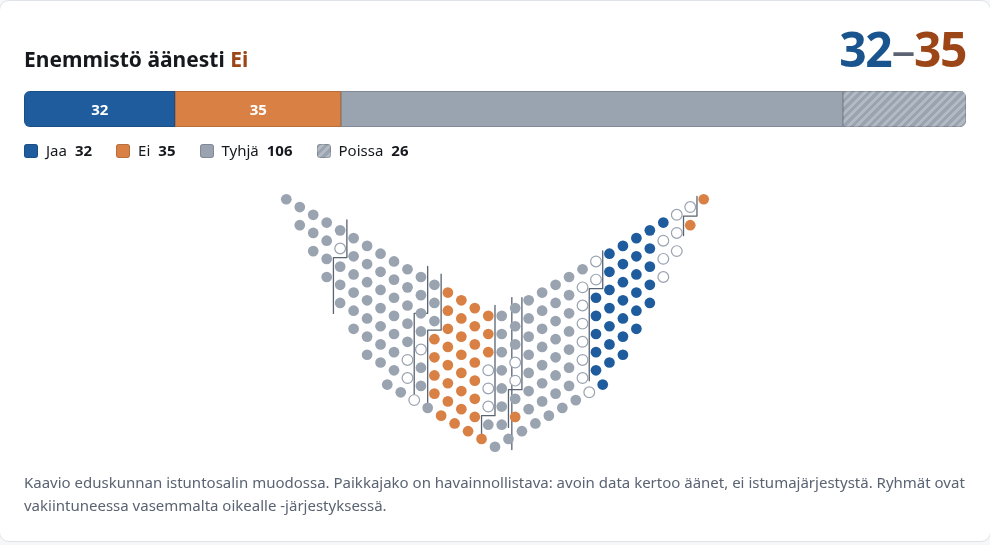
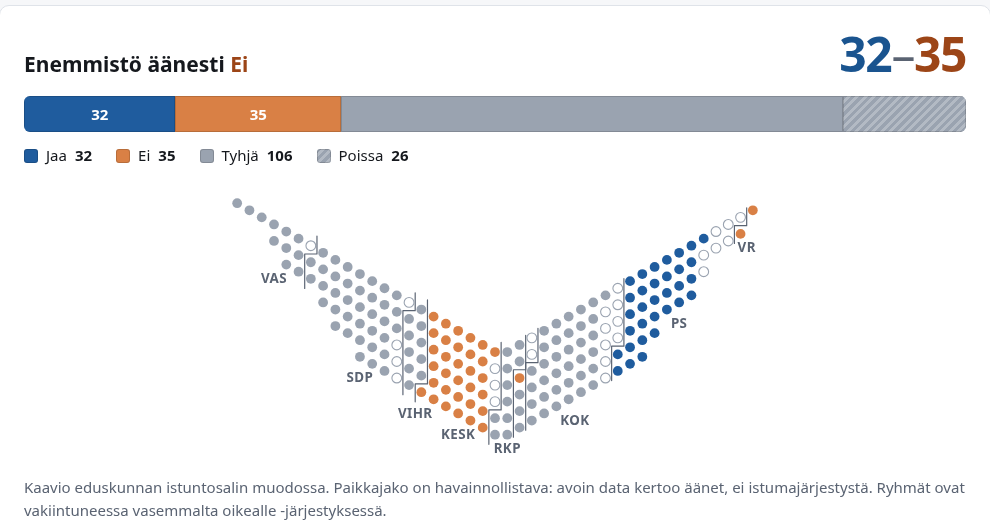
Name each group under its seats, and fix the lattice the lines sit on
Two things, because the second turned out to be the cause of the first.

The dividers were crossing each other. Not crowding — crossing. Seats were
spaced along each row's own length, which put a row holding an odd number of
seats on integer steps out from the apex and an even row on half-integer
ones. The two interleaved into columns half the intended distance apart,
while the dividers still reached half an intended column either side, so a
step landed on its neighbour. Nothing about the seats looked wrong, which is
why it took measuring the coordinates to see. Every seat now sits at a
half-integer step on both arms and in every row, so all rows share one
lattice: 43 columns, every gap 15.59, and a test fails if two spacings ever
appear again.

Six rows instead of eight spreads the same members over 43 columns rather
than 32, which is the room the boundaries needed, and leaves the chevron
wide and shallow the way the printed chamber graphics draw it.

Each group is then named under its own seats — KOK, SDP, VAS — hanging just
below the underside of the chevron rather than on one line under the whole
diagram, which would have left the labels for the arms far from the members
they name. Getting that right took two attempts: the first measured the
group's deepest seat, the second the column nearest its centre, and both put
labels inside the seats, because the underside slopes and a label overhangs
the columns beside it. It now clears every seat under its own footprint.
[…]

Changed region(s): [[0.0, 0.3385, 0.9697, 1.0], [0.0, 0.0615, 1.0, 0.3077], [0.2121, 0.3692, 0.2424, 0.4]]

diff --git a/VoteCheckWeb/wwwroot/site.css b/VoteCheckWeb/wwwroot/site.css
@@ -301,6 +301,16 @@ h2 {
     stroke-linejoin: round;
 }
 
+/* Group names, in viewBox units so they scale with the diagram. text-anchor centres each
+ * on the block it names. */
+.chamber-label {
+    fill: var( --ink-muted );
+    font-size: 17px;
+    font-weight: 700;
+    text-anchor: middle;
+    letter-spacing: .03em;
+}
+
 .seat-Jaa   { fill: var( --jaa-fill ); }
 .seat-Ei    { fill: var( --ei-fill ); }
 .seat-Tyhjä { fill: var( --neutral-fill ); }
@@ -440,6 +450,11 @@ form.search button:hover { filter: brightness( 1.08 ); }
 /* ---- narrow screens ------------------------------------------------------- */
 
 @media ( max-width: 34rem ) {
+    /* The chamber is small enough on a phone that the group names render at about eight
+     * pixels — too small to read, and clutter at that size. The list directly below names
+     * every group anyway, which is the better way to read a breakdown on a phone. */
+    .chamber-label { display: none; }
+
     /* Group rows need nothing here — they stack on one edge at every width by construction. */
     .score { margin-left: 0; }
     th, td { padding: var( --space-2 ); }

diff --git a/VoteCheckWeb/Pages/Shared/_Chamber.cs b/VoteCheckWeb/Pages/Shared/_Chamber.cs
@@ -6,10 +6,14 @@ namespace VoteCheckWeb.Pages;
 public sealed record Seat(
     double X, double Y, string Vote, string Party, string Member, int PersonNumber );
 
+// A group's short name, centred under the block of seats it belongs to.
+public sealed record ChamberLabel( double X, double Y, string Text );
+
 // A laid-out chamber, with the box it needs. The caller does not compute geometry.
 // Dividers are SVG path data, one per boundary between two groups.
 public sealed record ChamberPlan(
     IReadOnlyList<Seat> Seats, IReadOnlyList<string> Dividers,
+    IReadOnlyList<ChamberLabel> Labels,
     double Width, double Height, double Radius ) {
     public bool IsEmpty => Seats.Count == 0;
 }
@@ -26,11 +30,15 @@ public sealed record ChamberPlan(
 // the split inside it, and how the whole chamber divided.
 public static class Chamber {
 
-    private const int RowCount = 8;
+    // Six rows rather than eight. The same members then spread over 43 columns instead of
+    // 32, which is what gives the boundaries between groups room to be told apart, and leaves
+    // the chevron wide and shallow the way the printed chamber graphics draw it.
+    private const int RowCount = 6;
     private const double SeatSpacing = 18;   // along an arm, centre to centre
     private const double RowSpacing = 21;    // between nested chevrons
     private const double SeatRadius = 6.2;
     private const double Margin = 8;
+    private const double LabelSize = 17;     // group names, in viewBox units
 
     // 30° from horizontal. Shallower reads as a line rather than a chamber; steeper turns the
     // chevron into a V narrow enough that the outer rows tower over the inner ones.
@@ -38,7 +46,7 @@ public static class Chamber {
 
     public static ChamberPlan Arrange( IReadOnlyList<IndividualVote> ballots ) {
         if ( ballots.Count == 0 )
-            return new ChamberPlan( [], [], 0, 0, SeatRadius );
+            return new ChamberPlan( [], [], [], 0, 0, SeatRadius );
 
         var seated = ballots
             .OrderBy( b => Party.SeatingRank( b.Party ) )
@@ -70,8 +78,61 @@ public static class Chamber {
             .Select( s => s with { X = Round( s.X - minX ), Y = Round( s.Y - minY ) } )
             .ToList();
 
-        return new ChamberPlan( shifted, Dividers( shifted ),
-                                Round( maxX - minX ), Round( maxY - minY ), SeatRadius );
+        var labels = Labels( shifted );
+
+        // The box has to grow to hold the labels, which hang below the seats.
+        var height = labels.Count == 0
+            ? maxY - minY
+            : Math.Max( maxY - minY, labels.Max( l => l.Y ) + LabelSize * 0.35 + Margin );
+
+        return new ChamberPlan( shifted, Dividers( shifted ), labels,
+                                Round( maxX - minX ), Round( height ), SeatRadius );
+    }
+
+    // A short name under each group, centred on its seats and hanging just below them, so the
+    // labels follow the underside of the chevron. One line under the whole diagram would have
+    // left the labels for the arms floating far from the members they name.
+    private static List<ChamberLabel> Labels( List<Seat> seats ) {
+        var labels = new List<ChamberLabel>();
+        double placedRight = 0, placedY = 0;
+        var first = true;
+
+        foreach ( var group in seats.GroupBy( s => s.Party )
+                                    .OrderBy( g => g.Min( s => s.X ) ) ) {
+            var text = Party.ShortName( group.Key );
+            var centre = ( group.Min( s => s.X ) + group.Max( s => s.X ) ) / 2;
+
+            // Rough, and deliberately so: the exact width depends on the reader's font, and
+            // erring wide both drops a doubtful label and clears more seats than strictly
+            // needed, which are the safe directions to be wrong in.
+            var half = text.Length * LabelSize * 0.34;
+
+            // Clear every seat the label will actually sit over, not just the ones in this
+            // group's own column. The underside of the chevron slopes, so a label centred on
+            // one column overhangs deeper ones beside it: measuring a single column put VAS
+            // and KOK inside the seats rather than under them.
+            var footprint = seats
+                .Where( s => Math.Abs( s.X - centre ) <= half + SeatRadius )
+                .Select( s => s.Y )
+                .DefaultIfEmpty( group.Max( s => s.Y ) )
+                .Max();
+            var y = footprint + SeatRadius + LabelSize;
+
+            var left = centre - half;
+            var right = centre + half;
+
+            // Groups of one or two members are narrower than their own name, and a row of
+            // overlapping labels identifies nobody. The list below the diagram names every
+            // group, and hovering a seat names its member's, so dropping one costs little.
+            if ( !first && left < placedRight && Math.Abs( y - placedY ) < LabelSize * 1.2 )
+                continue;
+
+            labels.Add( new ChamberLabel( Round( centre ), Round( y ), text ) );
+            ( placedRight, placedY ) = ( right, y );
+            first = false;
+        }
+
+        return labels;
     }
 
     // A line along each boundary between two groups, so the blocks are bounded rather than
@@ -139,23 +200,31 @@ public static class Chamber {
             var n = perRow[ row ];
             if ( n == 0 ) continue;
 
-            // The apex of each nested chevron sits above the one inside it, and the arms grow
-            // so that seat spacing stays constant however many a row holds.
+            // The apex of each nested chevron sits above the one inside it; the arms simply
+            // run as far as the row's seats reach.
             var apexY = -row * RowSpacing;
-            var armLength = n * SeatSpacing / 2.0;
 
-            for ( var i = 0; i < n; i++ ) {
-                // Walk the whole path — left tip, through the apex, out to the right tip —
-                // and place seats at even intervals along it. Measuring by path length rather
-                // than per arm means an odd row simply puts one seat near the apex instead of
-                // forcing the row to be even.
-                var along = ( i + 0.5 ) / n * ( 2 * armLength );
-                var onLeftArm = along < armLength;
-                var fromApex = onLeftArm ? armLength - along : along - armLength;
+            // Every seat sits a half-integer number of steps out from the apex, on both arms
+            // and in every row, so all rows share one lattice and the columns line up.
+            //
+            // Spacing them along the row's own length instead looked equivalent and was not:
+            // a row holding an odd number of seats landed on integer steps while an even row
+            // landed on half-integer ones, and the two interleaved into columns half the
+            // expected distance apart. The dividers, which reach half a column either side,
+            // then crossed their neighbours.
+            var left = n / 2;
+            var right = n - left;
+            // Alternate which arm takes the extra seat of an odd row, so the lopsidedness
+            // does not accumulate down one side of the chamber.
+            if ( row % 2 == 1 ) ( left, right ) = ( right, left );
 
-                var dx = fromApex * Math.Cos( ArmAngle );
-                var dy = fromApex * Math.Sin( ArmAngle );
-                points.Add( ( onLeftArm ? -dx : dx, apexY - dy ) );
+            for ( var k = 0; k < left; k++ ) {
+                var d = ( k + 0.5 ) * SeatSpacing;
+                points.Add( ( -d * Math.Cos( ArmAngle ), apexY - d * Math.Sin( ArmAngle ) ) );
+            }
+            for ( var k = 0; k < right; k++ ) {
+                var d = ( k + 0.5 ) * SeatSpacing;
+                points.Add( ( d * Math.Cos( ArmAngle ), apexY - d * Math.Sin( ArmAngle ) ) );
             }
         }
 

diff --git a/VoteCheckWeb.Tests/ChamberTests.cs b/VoteCheckWeb.Tests/ChamberTests.cs
@@ -145,6 +145,38 @@ public class ChamberTests {
     }
 
     [TestMethod]
+    public void EveryRowSharesOneLatticeSoColumnsAreEvenlySpaced() {
+        // The dividers reach half a column either side, so the columns have to be a uniform
+        // distance apart. They were not: spacing seats along each row's own length put an odd
+        // row on integer steps from the apex and an even row on half-integer ones, and the two
+        // interleaved into columns half the expected distance apart — so a stepped divider
+        // reached exactly onto its neighbour. Nothing about the seats looked wrong, only the
+        // lines crossing each other.
+        foreach ( var n in new[] { 99, 150, 198, 199, 200 } ) {
+            var xs = Chamber.Arrange( Ballots( n ) )
+                .Seats.Select( s => s.X ).Distinct().OrderBy( x => x ).ToList();
+            var gaps = xs.Zip( xs.Skip( 1 ), ( a, b ) => Math.Round( b - a, 1 ) )
+                         .Distinct().ToList();
+            Assert.AreEqual( 1, gaps.Count,
+                $"{n} ballots produced columns at {gaps.Count} different spacings: "
+                + string.Join( ", ", gaps ) );
+        }
+    }
+
+    [TestMethod]
+    public void NoBoundaryIsDrawnTwice() {
+        var plan = Chamber.Arrange( Division() );
+
+        CollectionAssert.AllItemsAreUnique( plan.Dividers.ToList() );
+
+        // Note that two *different* boundaries sharing a starting x is expected, not a fault:
+        // where one group ends partway down a column and the next ends at the foot of the same
+        // column, the step's right edge and the following straight line lie on one vertical,
+        // above and below the step. Together they read as the single continuous boundary they
+        // are. Asserting distinct x values here fails on correct output.
+    }
+
+    [TestMethod]
     public void BoundariesInsideAColumnStepAroundTheMembersRatherThanCuttingThrough() {
         // A group almost never ends exactly where a column does, so some boundaries fall
         // partway down one. Those are drawn as a step — two verticals joined by a horizontal —

diff --git a/VoteCheckWeb/Data/Party.cs b/VoteCheckWeb/Data/Party.cs
@@ -41,6 +41,27 @@ public static class Party {
         [ "tv" ]   = "Eduskuntaryhmä Timo Vornanen",
     };
 
+    // Four characters at most, for labelling the chamber diagram, where a name has to fit
+    // under a group that may be only a few seats wide. These are the forms Finnish election
+    // graphics use — "RKP" rather than the bare "r" upstream sends, which names nothing.
+    private static readonly Dictionary<string, string> ShortNames = new( StringComparer.OrdinalIgnoreCase ) {
+        [ "kok" ]  = "KOK",
+        [ "sd" ]   = "SDP",
+        [ "ps" ]   = "PS",
+        [ "kesk" ] = "KESK",
+        [ "vihr" ] = "VIHR",
+        [ "vas" ]  = "VAS",
+        [ "r" ]    = "RKP",
+        [ "kd" ]   = "KD",
+        [ "liik" ] = "LIIK",
+        [ "tv" ]   = "TV",
+    };
+
+    public static string ShortName( string? abbreviation ) {
+        var key = ( abbreviation ?? "" ).Trim();
+        return ShortNames.TryGetValue( key, out var name ) ? name : key.ToUpperInvariant();
+    }
+
     // The conventional left-to-right ordering of the groups, used to seat the chamber diagram.
     // It is the arrangement Finnish election graphics and the chamber itself use, and it is a
     // convention rather than a measurement — nothing downstream depends on it being an exact
